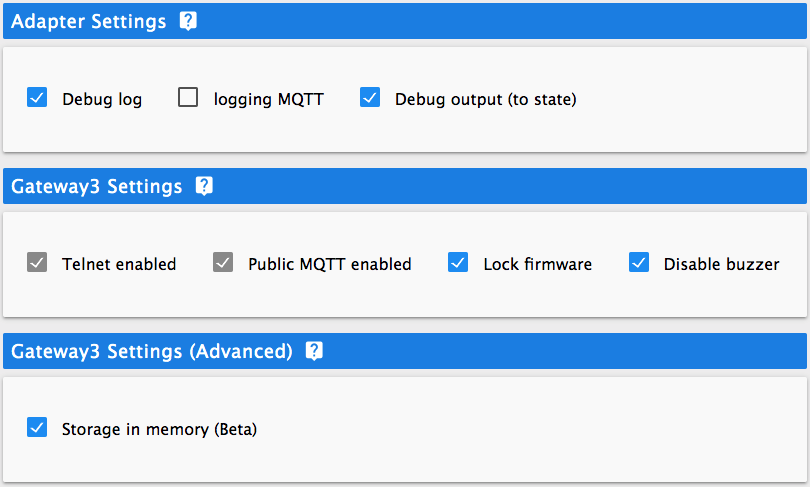
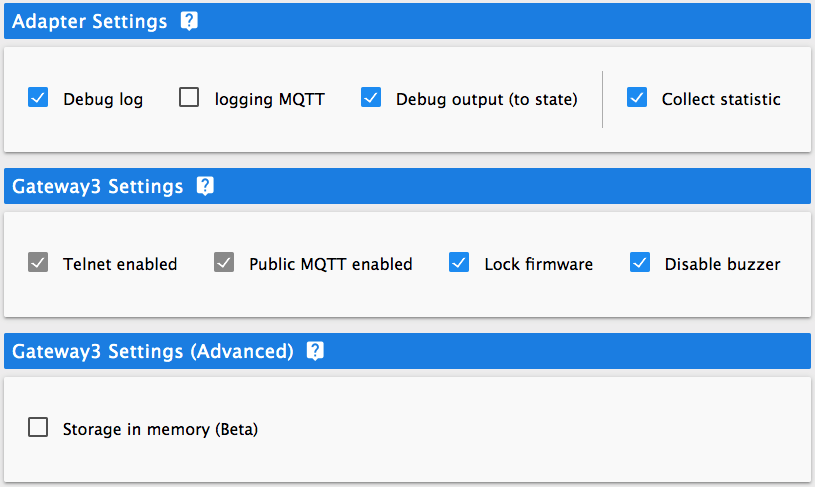
Updated README

diff --git a/README.md b/README.md
@@ -1,4 +1,5 @@
-![Logo](static/xiaomi-gateway3_logo.png)
+<img src="static/xiaomi-gateway3_logo.png" alt="Logo" width="200"/>
+
 # ioBroker.xiaomi-gateway3
 
 [![NPM version](https://img.shields.io/npm/v/iobroker.xiaomi-gateway3.svg)](https://www.npmjs.com/package/iobroker.xiaomi-gateway3)
@@ -145,6 +146,7 @@ __*!!Attantion:*__ Firmware versions lower than `1.4.7_0000` adapter not support
 
 _**Note:** BLE devices may not have states at first time after pairing because i don't know specs for devices and didn't define properties for all devices for now. States will added when device will update correponding propertie. I hope I will fix this over time with your help._
 
+
 ## Configuration
 
 To connect a gateway you need get IP and TOKEN of gateway. You can do this manually or from cloud.
@@ -168,6 +170,10 @@ You have several options to configure adapter and gatewey.
 - [x] __Debug output (to stete)__<br/>
 Adapter will doing output some debug info into state for each device.
 
+- [x] __Collect statistic__<br/>
+Adapter collect statistic about zigbee devices messages: how much received, how much missed and etc. Statistic stored to state at each device and can be viewed in 'tab' page (from sidebar menu). <br/>
+_**Note:** Adapter do reset statistic on restart._
+
 ### Basic Gateway3 settings
 
 - [x] __Telnet enabled__<br/>
@@ -188,6 +194,15 @@ Set true to disable annoying buzzer signals or false to enable all signals.
 Move devices DB files to memory. This can improve work zigbee and bluetooth devices. __*But can occur losing some data. Use on your own risk.*__
 
 
+## Tab page
+
+### Statistic
+
+<img src="static/tab-statistic.png">
+
+_**Note:** Statistic don't load by default on page open. You have to use button `RELOAD` to update statistic on page._
+
+
 ## Changelog
 <!--
     Placeholder for the next version (at the beginning of the line):
@@ -201,6 +216,7 @@ Move devices DB files to memory. This can improve work zigbee and bluetooth devi
 
 ### 0.0.1-alpha.0 (2021-10-13)
 * (Evgenii Abramov) Initial release
+
 
 ## License
 MIT License
